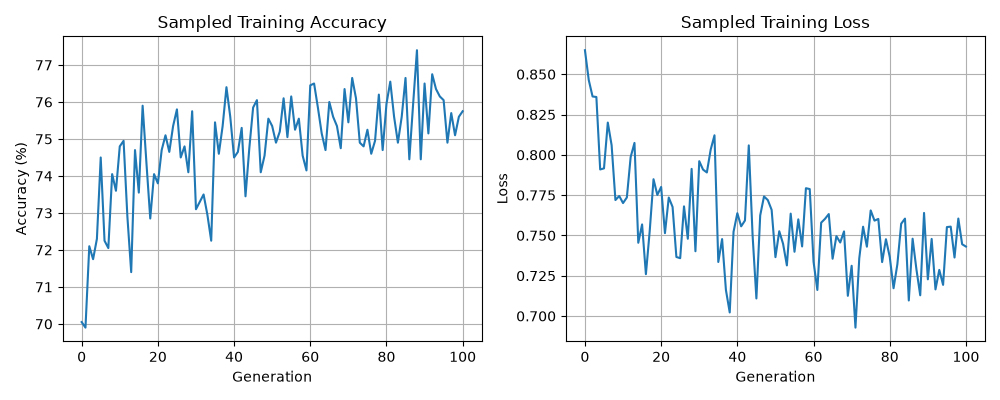
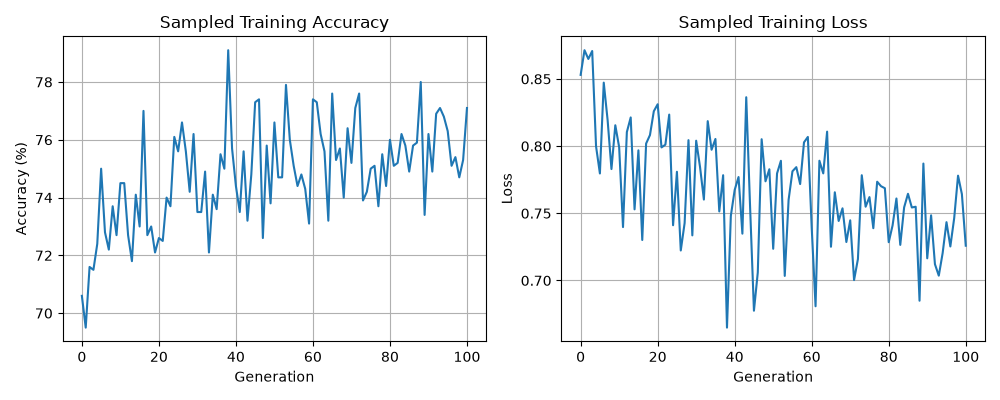
GA最終評価のデータをBPでも使ってないやつにしてみる

diff --git a/scripts/ga_cifar10.py b/scripts/ga_cifar10.py
@@ -77,7 +77,7 @@ def genetic_algorithm(model, dataset, train_indices, final_indices, device, eval
     origin = 1
     generations = 100
     elite_size = 20
-    mutation_rate = 0.0001
+    mutation_rate = 0.00005
     random_seed = 42
 
     torch.manual_seed(random_seed)
@@ -285,7 +285,7 @@ def save_csv(history, after_acc, after_loss):
 
 def main():
 
-    eval_size = 2000
+    eval_size = 1000
 
     device = torch.device('cuda' if torch.cuda.is_available() else 'cpu')
     print(f"使用デバイス: {device}")
